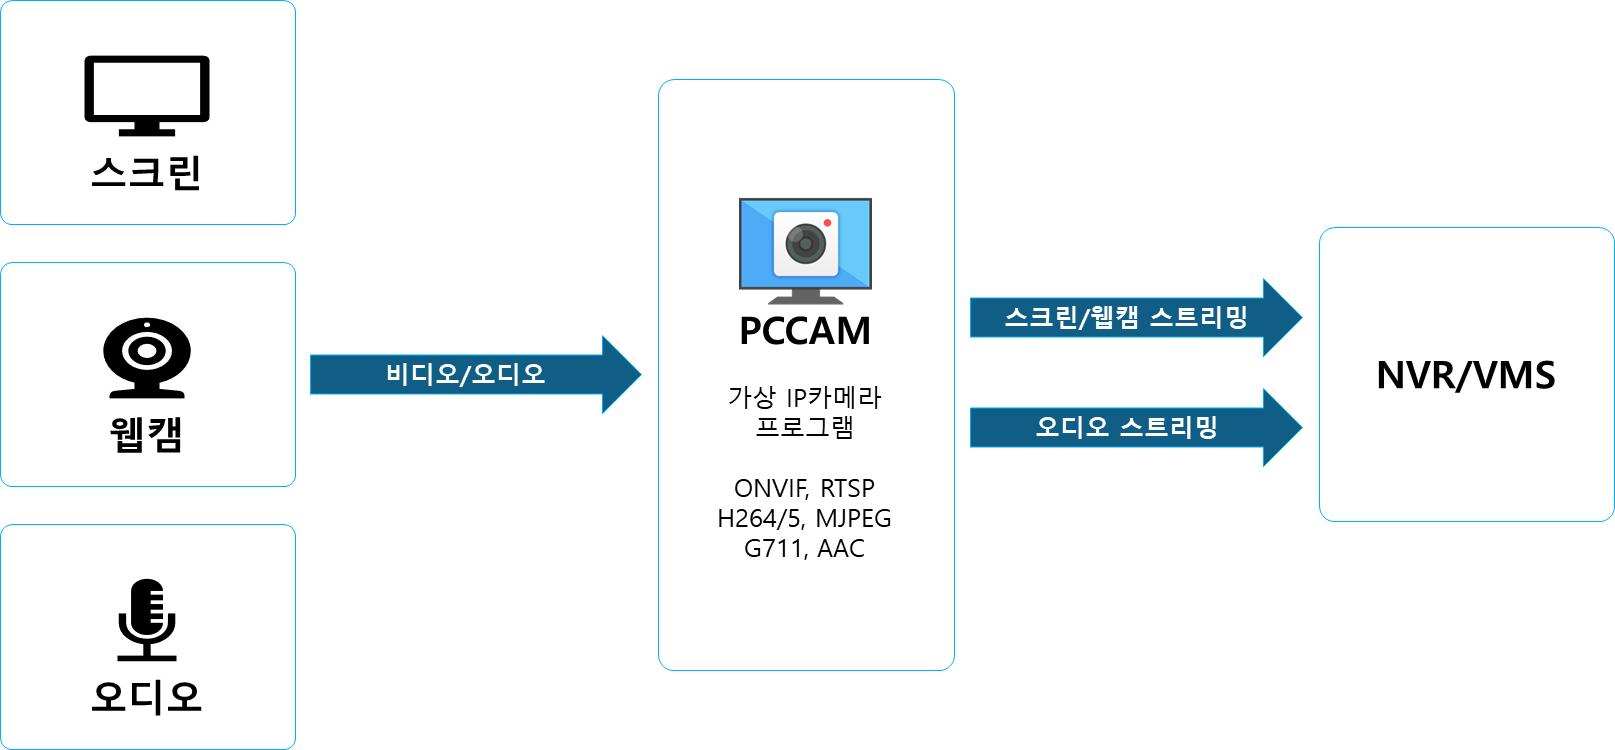
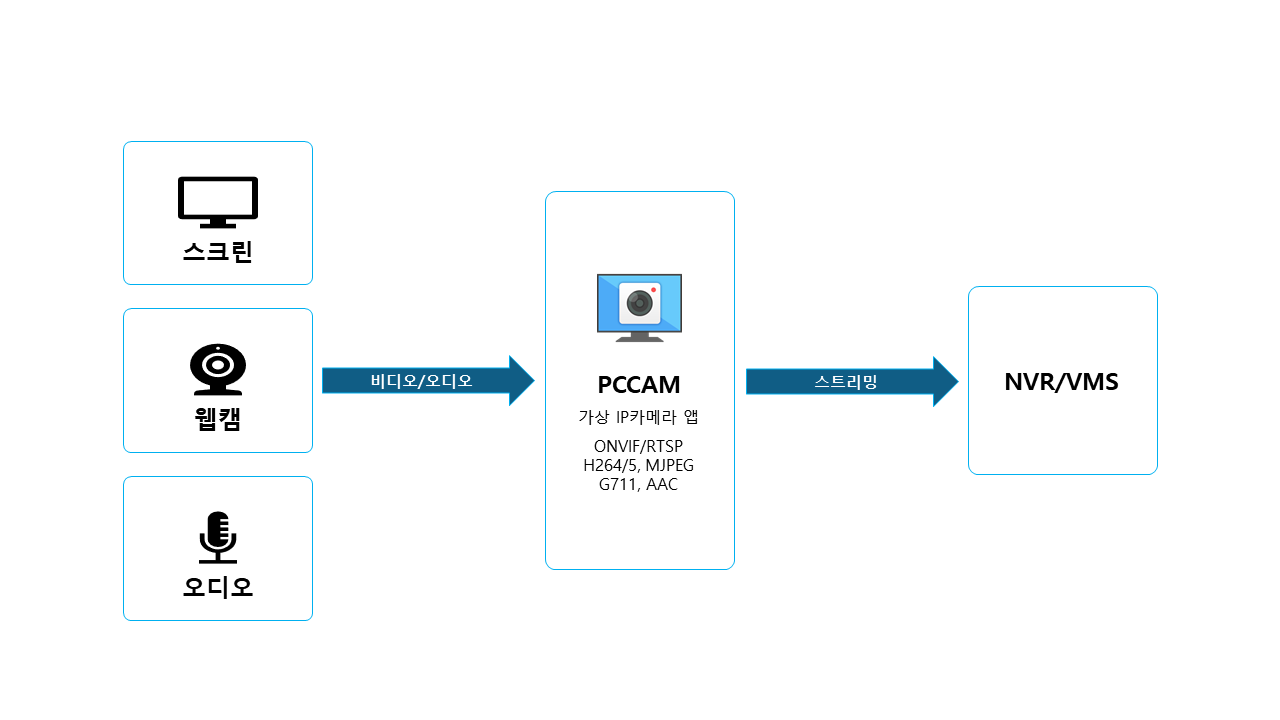
소개 수정

diff --git a/README.md b/README.md
@@ -1,5 +1,5 @@
 ##소개
 
-**PCCAM**은 PC 활동 및 기타 미디어를 ONVIF/RTSP을 통해 NVR/VMS로 스트리밍하는 가상 IP카메라 프로그램입니다.
-  
+> **PCCAM**은 ONVIF/RTSP 프로토콜을 통해 **PC 활동 및 기타 미디어**를 NVR/VMS로 스트리밍하는 **가상 IP카메라 앱**입니다.
+
 ![](img/oper_prin.PNG)
